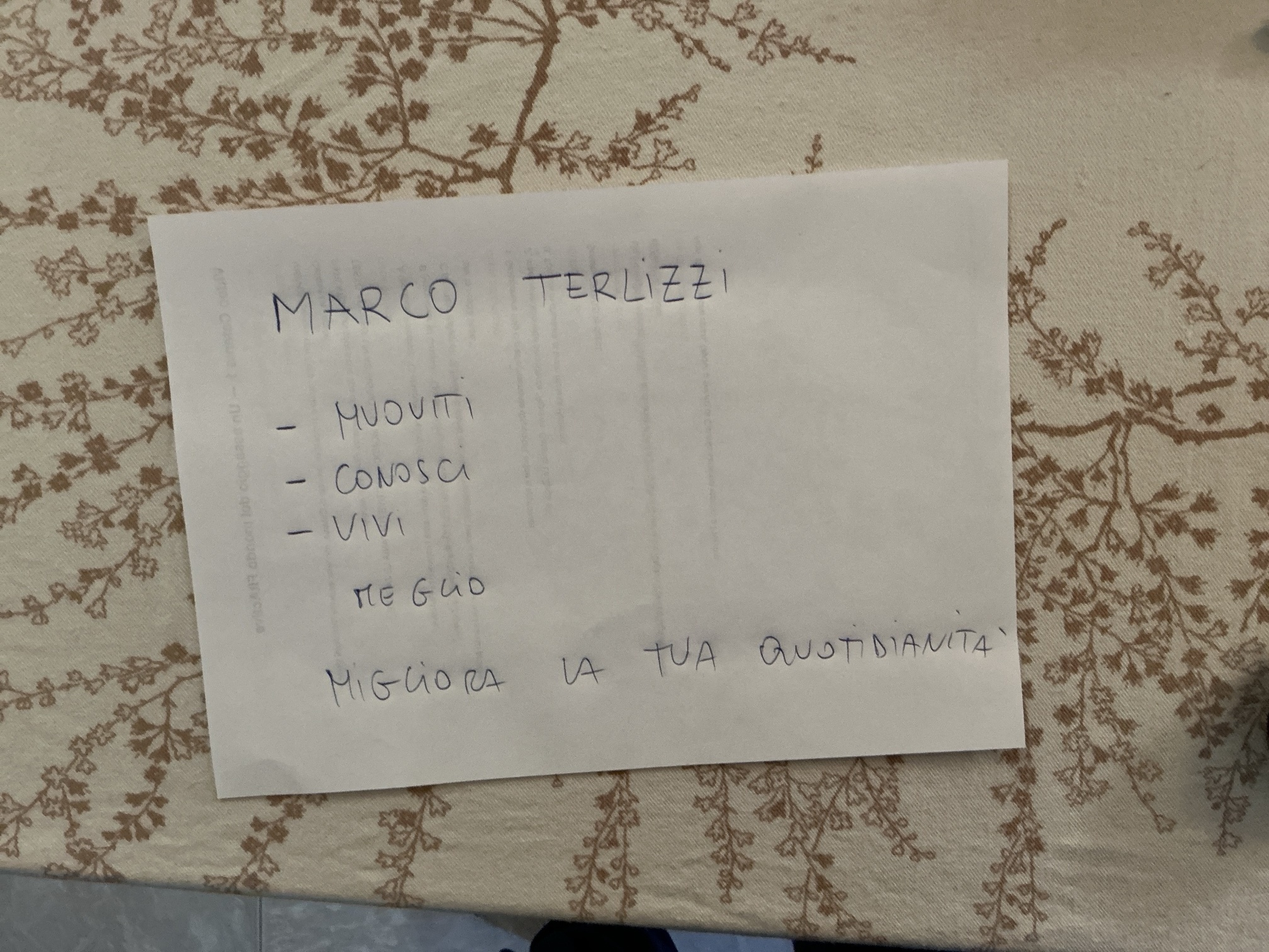
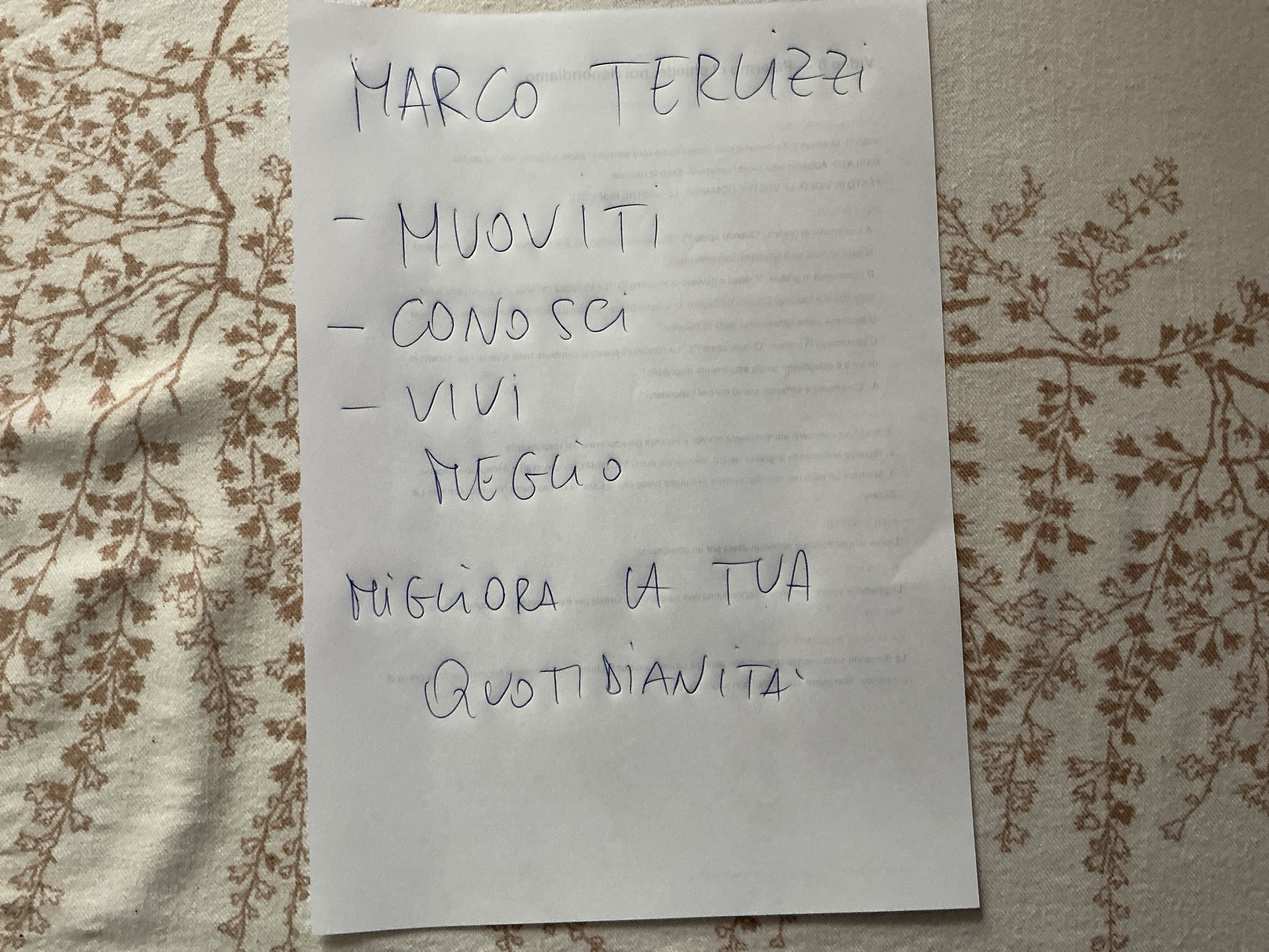
Rebuild launch Reel start frame from the new vertical sheet photo
Claude-Session: https://claude.ai/code/session_014s4w4irj4qGc6cLZYWqKkf

diff --git a/reel-lancio/prompt-higgsfield.md b/reel-lancio/prompt-higgsfield.md
@@ -6,8 +6,8 @@ Movimento camera, se usi i preset: Dolly In / Push In lento.
 
 ## Prompt
 
-Top-down overhead shot of a handwritten sheet of white paper lying on a beige
-tablecloth with a brown floral branch pattern. The camera slowly and smoothly
+Top-down overhead shot of a handwritten sheet of white paper that fills the
+frame, lying on a beige tablecloth with a brown floral pattern. The camera slowly and smoothly
 pushes in toward the small handwritten word "MEGLIO" in blue ballpoint ink,
 until it sits in the centre of the frame. As the camera arrives, a thin
 hand-drawn line in the same blue ballpoint ink starts under the word "MEGLIO"
